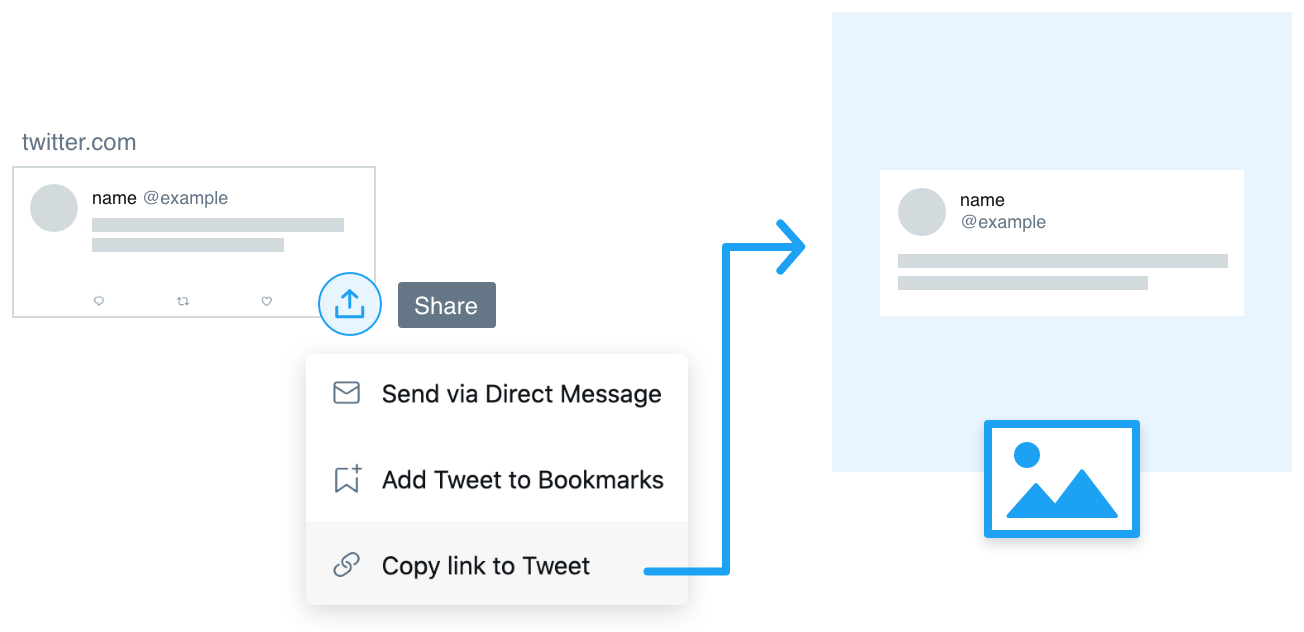
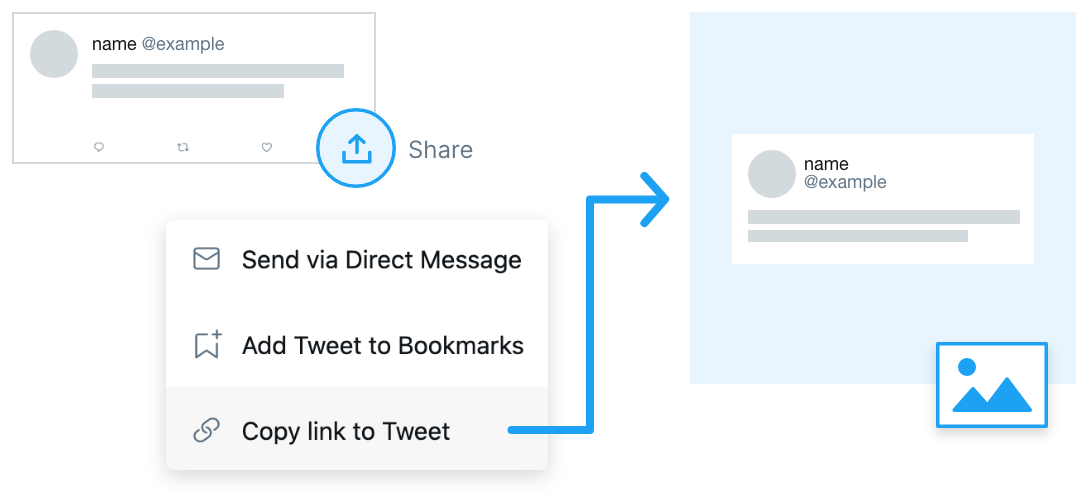
added diagram graphic on landing page

diff --git a/pages/index.js b/pages/index.js
@@ -7,6 +7,7 @@ import Spinner from 'react-bootstrap/Spinner';
 
 import Result from '../components/result';
 import Arrow from '../components/arrow.js';
+// import diagram from '../public/diagram.png';
 
 const serverErrorMsg = 'Server Error';
 
@@ -179,7 +180,7 @@ class IndexPage extends React.Component {
   render(){
     var res;
     if (this.state.blank){
-      res = null;
+      res = <div id='result'><img id='diagram' src='diagram.png'/></div>;
     } else if (this.state.loading){
       res = <Spinner animation="border" role="status">
               <span className="sr-only">Loading...</span>
@@ -215,12 +216,13 @@ class IndexPage extends React.Component {
 
         <div id='container'>
           <div id='form-wrapper'>
-            <h1>tweet-img</h1>
+            <a id='site-name' href='https://tweet-img.vercel.app/'>tweet-img</a>
+            <h1>Transform tweet links into colorful graphics</h1>
             <p id='support'>Only tested on <a target='__blank' href='https://github.com/mhuap/tweet-img/projects/5'>some kinds</a> of tweets.</p>
             <form id='top-form' onSubmit={this.handleSubmit}>
-              <label>Enter Tweet URL</label>
+              <label>Enter tweet link</label>
               <div id='form-input' className={this.state.error ? 'error' : ''}>
-                <input id='url-input'type='text' ref={this.urlInput} name='url' placeholder='twitter.com/status/tweeturl'/>
+                <input id='url-input'type='text' ref={this.urlInput} name='url' placeholder='twitter.com/status/tweetlink'/>
                 <button className='input-overlay'>
                   <Arrow/>
                 </button>
@@ -228,6 +230,7 @@ class IndexPage extends React.Component {
               <p id='error'>{this.state.error ? 'Not a tweet URL' : ''}</p>
             </form>
           </div>
+
 
           <div id='result-wrapper' ref={this.result}>
             {res}

diff --git a/scss/index.scss b/scss/index.scss
@@ -45,7 +45,7 @@ h1 {
   font-weight: 700;
   font-size: 32px;
   letter-spacing: -1px;
-  margin-bottom: 0;
+  margin-top: 150px;
 }
 
 h3 {
@@ -137,13 +137,13 @@ small {
 #form-wrapper {
   width: 100%;
   margin: 0 auto 8px auto;
-  height: 35vh;
+  // height: 35vh;
   display: flex;
   flex-direction: column;
   justify-content: flex-end;
 
   p#support {
-    margin-top: 0;
+    // margin-top: 8px;
     margin-bottom: 2rem;
     color: $color-grey;
     font-size: 1rem;
@@ -165,6 +165,14 @@ small {
     font-size: 0.75rem;
     height: 0.75rem;
   }
+
+  #site-name {
+    font-weight: bold;
+
+    &:hover {
+      text-decoration: none;
+    }
+  }
 }
 
 #form-input {
@@ -174,6 +182,12 @@ small {
   input {
     padding-left: 12px;
     padding-right: 42px;
+    border-color: $color-dark;
+
+    &:focus {
+      border-color: $color-blue;
+    }
+
   }
 
   button {
@@ -249,6 +263,12 @@ label {
   flex-direction: column;
   justify-content: space-around;
   // position: relative;
+}
+
+#diagram {
+  padding-top: 1rem;
+  width: 90%;
+  align-self: center;
 }
 
 .sq-container-container {
@@ -473,7 +493,8 @@ label {
   }
 
   h1 {
-    font-size: 44px;
+    font-size: 40px;
+    margin-top: 100px;
   }
 
   label {
@@ -528,7 +549,7 @@ label {
   }
 
   #form-wrapper {
-    height: 40vh;
+    // height: 40vh;
 
     p#support {
       font-size: 0.75rem;

diff --git a/components/result.js b/components/result.js
@@ -139,13 +139,7 @@ class Result extends React.Component {
       </>
     }
 
-    return (
-      <>
-        <div id='result'>
-          {content}
-        </div>
-      </>
-    );
+    return <div id='result'>{content}</div>;
   }
 }
 
